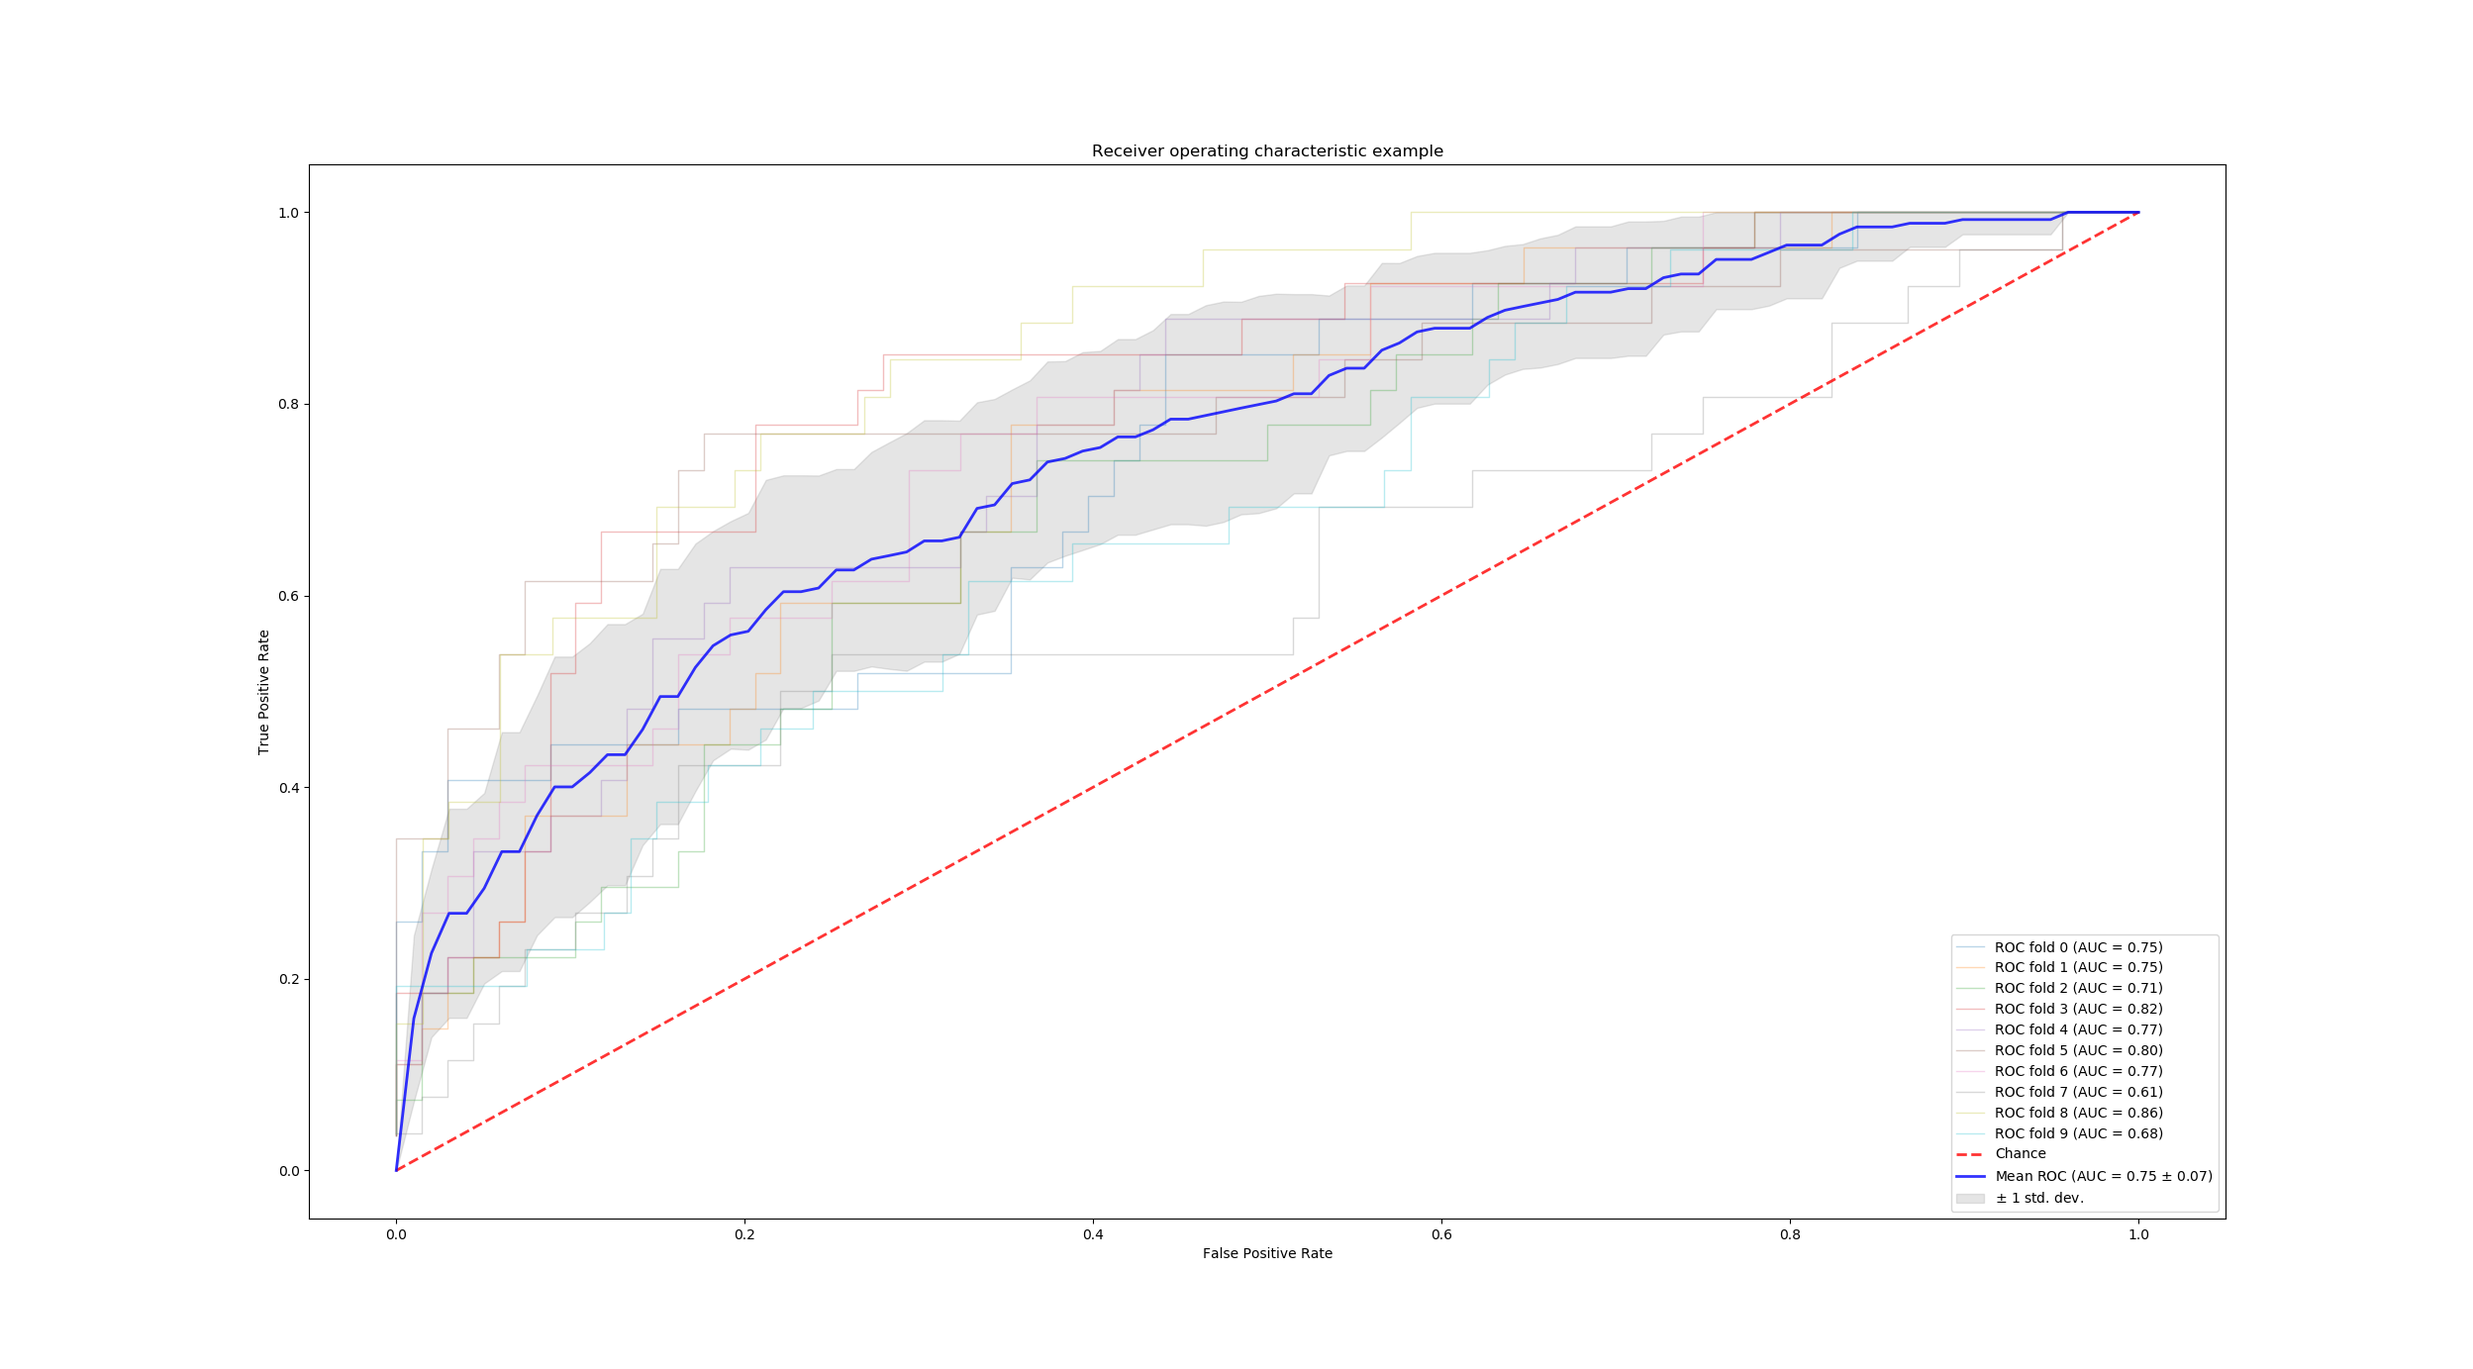
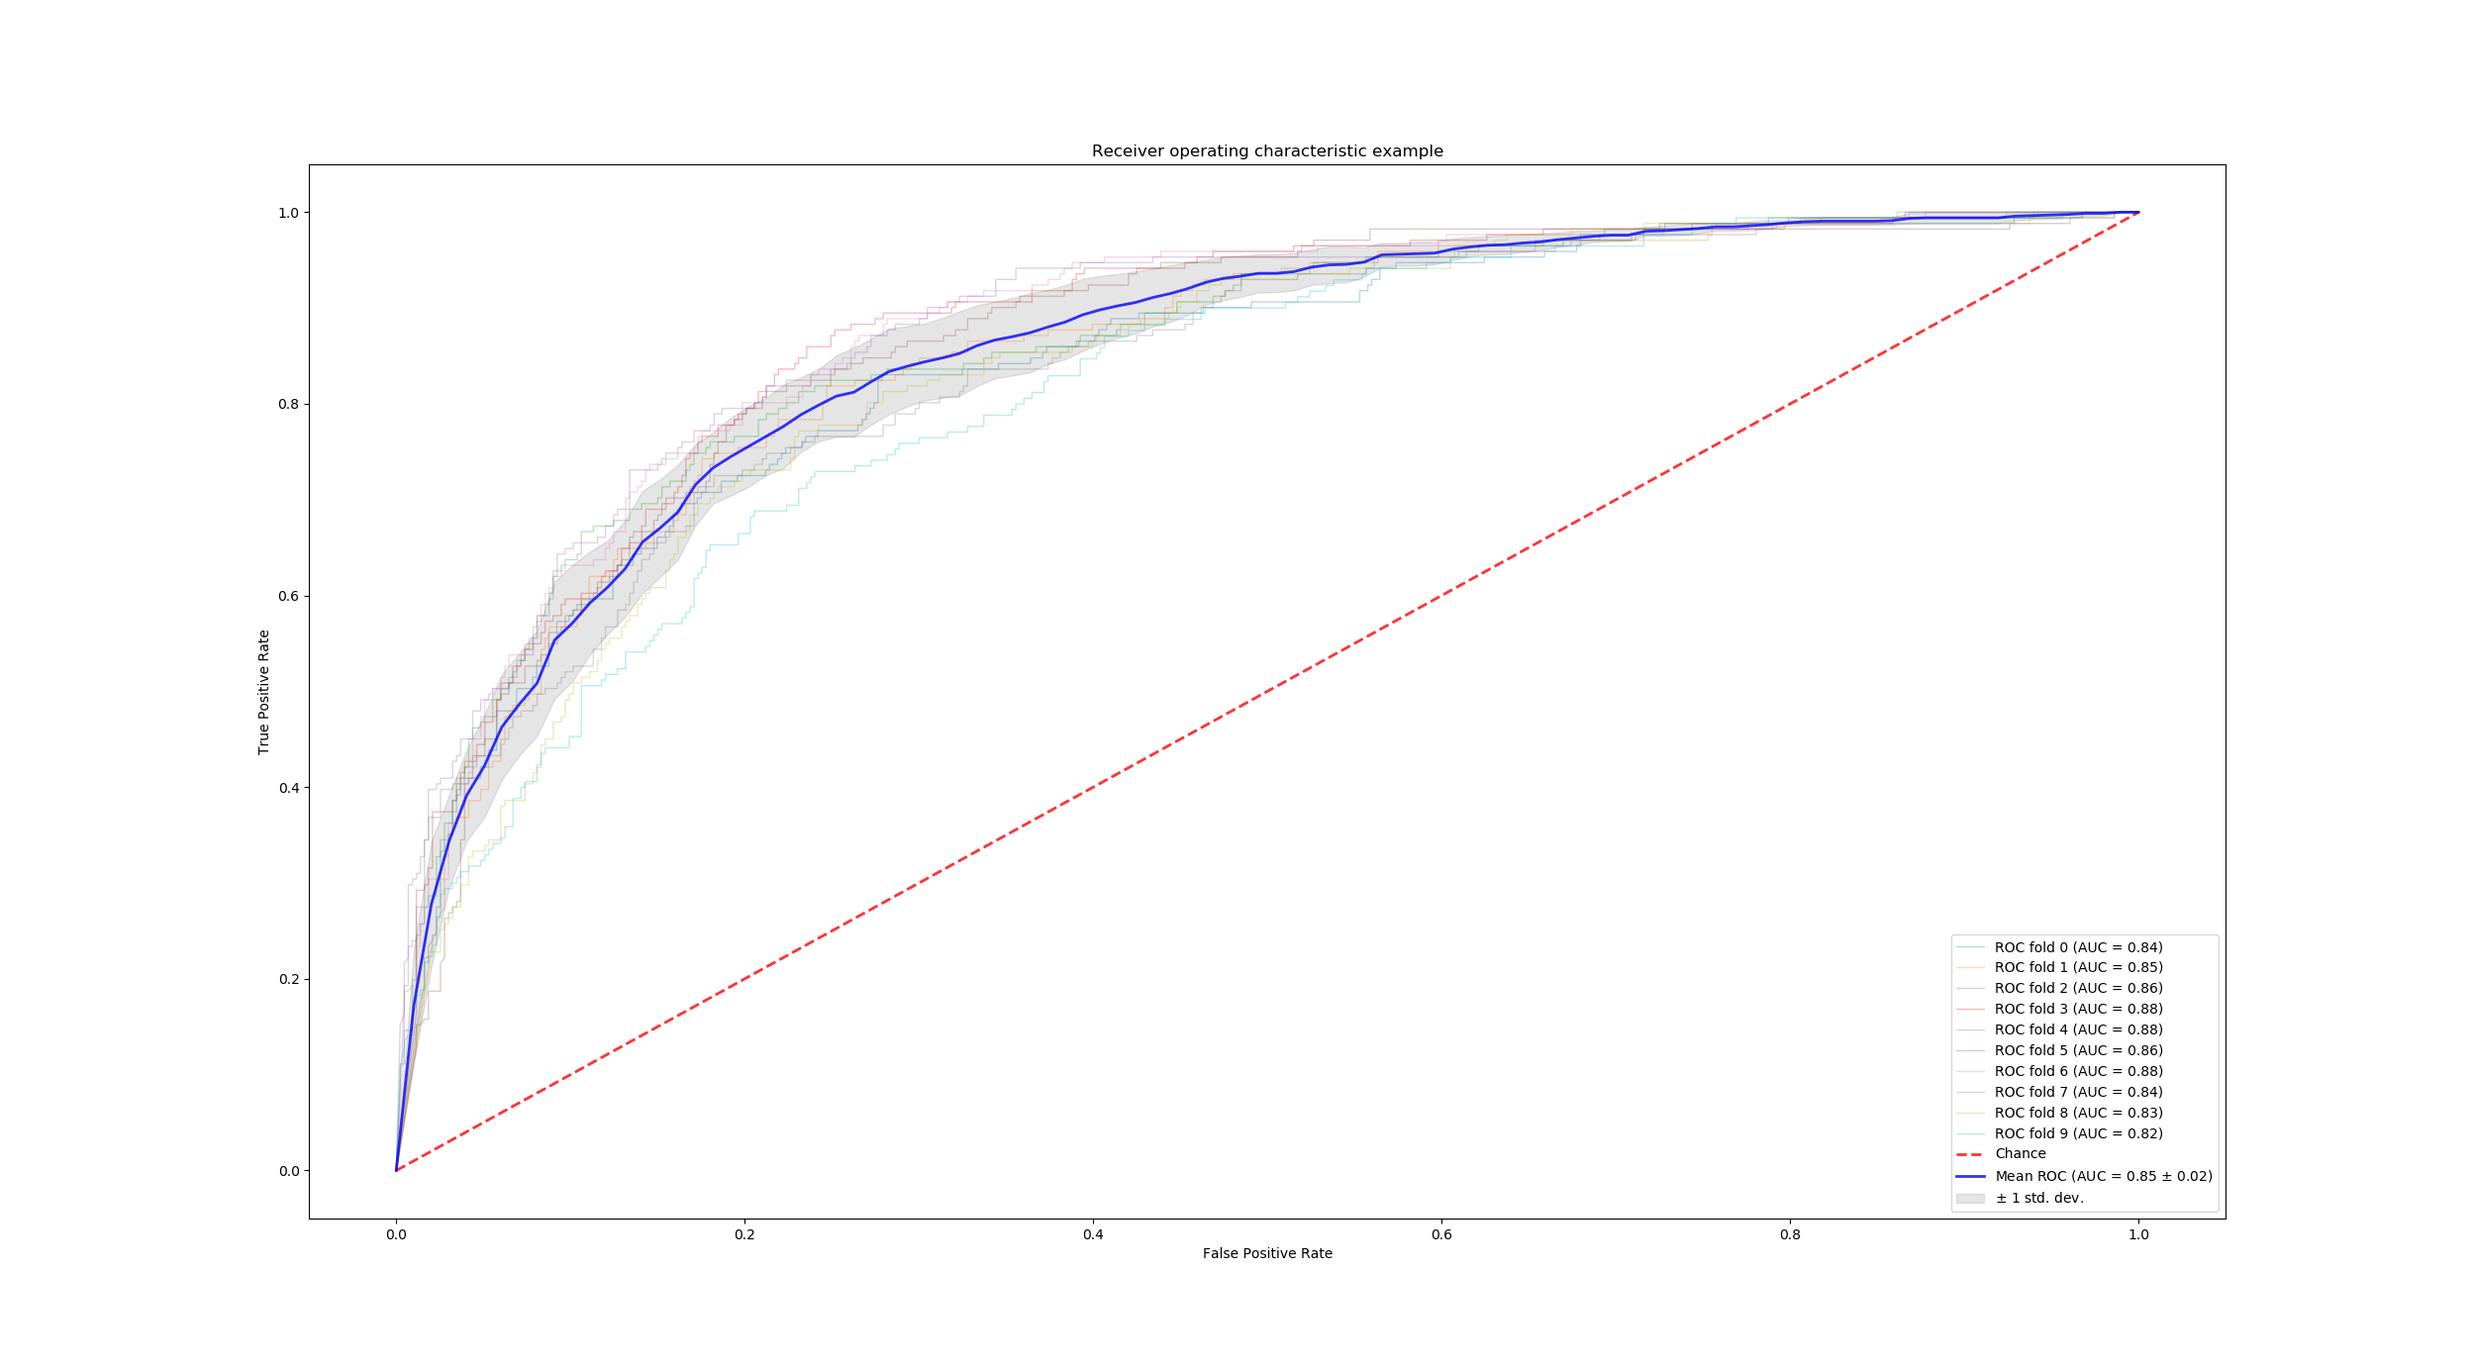
Add files via upload

Changed region(s): [[0.1561, 0.1555, 0.8431, 0.8395]]

diff --git a/code/Classifiers.py b/code/Classifiers.py
@@ -9,16 +9,17 @@ def svm_classifier(X, T):
     X_train, T_train = X[0:int(0.9 * len(X))], T[0:int(0.9 * len(X))]
     X_test, T_test = X[int(0.9 * len(X)):], T[int(0.9 * len(X)):]
     model = SVC(kernel='linear', C=1)
-    scores = cross_val_score(model, X_train, T_train, cv=5, scoring='roc_auc')
-    model.fit(X_train, T_train)
-    Y = model.predict(X_test)
-    print("AUC on folds:", scores)
-    print("Average AUC over all folds:", scores.mean())
+    #model = SVC(kernel='rbf', C=1)
+    #scores = cross_val_score(model, X_train, T_train, cv=5, scoring='roc_auc')
+    #model.fit(X_train, T_train)
+    #Y = model.predict(X_test)
+    #print("AUC on folds:", scores)
+    #print("Average AUC over all folds:", scores.mean())
     from sklearn.metrics import confusion_matrix as cm
-    tn, tp, fn, tp = cm(T_test, Y).ravel()
-    print(tn, tp, fn, tp)
-    print("measures", performance_measures(Y, T_test))
-    confusion_matrix(Y, T_test, size=int(max(T) + 1))
+    #tn, tp, fn, tp = cm(T_test, Y).ravel()
+    #print(tn, tp, fn, tp)
+    #print("measures", performance_measures(Y, T_test))
+    #confusion_matrix(Y, T_test, size=int(max(T) + 1))
 
     plot_ROC = False
     if plot_ROC:
@@ -41,11 +42,13 @@ def svm_classifier(X, T):
         plt.xlabel('False Positive Rate')
         plt.show()
     random_state = np.random.RandomState(0)
-    classifier = SVC(kernel='rbf', probability=True, random_state=random_state)
+    classifier = SVC(kernel='linear', probability=True, random_state=random_state)
+    #classifier= SVC(kernel='rbf', C=1, probability=True, random_state=random_state)
 
     ROC_cv(X, T, classifier)
 
-    return scores.mean()
+    #return scores.mean()
+    return 0
 
 
 def log_reg(X, T):
@@ -53,13 +56,13 @@ def log_reg(X, T):
     X_test, T_test = X[int(0.9 * len(X)):], T[int(0.9 * len(X)):]
     from sklearn.linear_model import LogisticRegression
     model = LogisticRegression()
-    scores = cross_val_score(model, X, T, cv=10)
-    model.fit(X, T)
-    Y = model.predict(X)
-    print("accuracy on folds:", scores)
-    print("Average accuracy over all folds:", scores.mean())
+    #scores = cross_val_score(model, X, T, cv=10)
+    #model.fit(X, T)
+    #Y = model.predict(X)
+    #print("accuracy on folds:", scores)
+    #print("Average accuracy over all folds:", scores.mean())
     #print("Beta values:", model.coef_)
-    confusion_matrix(Y, T)
+    #confusion_matrix(Y, T)
     print("measures", performance_measures(Y, T_test))
     random_state = np.random.RandomState(0)
     model = LogisticRegression(penalty='l2', random_state=random_state)
@@ -68,7 +71,20 @@ def log_reg(X, T):
     return scores.mean()
 
 
-def MLP_classifier(X, T, n_items, nr_output=2):
+def MLP_classifier(X, T, n_items):
+    nr_output = 2
+    model = MLP(n_hidden=int(200), n_output=nr_output)
+    X_train, T_train = X[0:int(0.9 * len(X))], T[0:int(0.9 * len(X))]
+    X_test, T_test = X[int(0.9 * len(X)):], T[int(0.9 * len(X)):]
+    model.fit(X_train, T_train)
+    Y = model.predict(X_test)
+    print(Y)
+    print("measures", performance_measures(Y, T_test))
+    model = MLP(n_hidden=int(200), n_output=nr_output)
+    ROC_cv(X, T, model)
+
+
+def MLP_classifier2(X, T, n_items, nr_output=2):
     from chainer.optimizers import Adam
     from chainer import Variable
     import chainer.functions as F
@@ -96,7 +112,7 @@ def MLP_classifier(X, T, n_items, nr_output=2):
     from chainer.dataset import concat_examples
     from chainer.backends.cuda import to_cpu
 
-    max_epoch = 50
+    max_epoch = 30
     train_accs = []
     train_accs_epochs = []
     val_acc_epochs = []
@@ -176,9 +192,36 @@ def MLP_classifier(X, T, n_items, nr_output=2):
             val_acc_epochs.append(np.mean(test_accuracies))
     confusion_matrix(final_pred, target_test.data, size=max_label)
 
-    print(train_accs_epochs, val_acc_epochs)
-    plot_line(range(max_epoch), train_accs_epochs, show=False)
-    plot_line(range(max_epoch), val_acc_epochs, legend=['train accuracy', 'validation accuracy'], xlabel='epoch', ylabel='accuracy')
+    #print(train_accs_epochs, val_acc_epochs)
+    #plot_line(range(max_epoch), train_accs_epochs, show=False)
+    #plot_line(range(max_epoch), val_acc_epochs, legend=['train accuracy', 'validation accuracy'], xlabel='epoch', ylabel='accuracy')
+    X_train, T_train = X[0:int(0.9 * len(X))], T[0:int(0.9 * len(X))]
+    X_test, T_test = X[int(0.9 * len(X)):], T[int(0.9 * len(X)):]
+    X_test = Variable(X_test).data.astype(np.float32)
+    plot_ROC = True
+    if plot_ROC:
+        import sklearn.metrics as metrics
+        # calculate the fpr and tpr for all thresholds of the classification
+        preds = model(X_test)
+        final_pred = np.zeros(shape=(len(preds),))
+        for i in range(len(preds)):
+            dummy = list(preds[i].data)
+            final_pred[i] = int(dummy.index(max(dummy)))
+        #print(len(T_test), len(final_pred), len(X_test))
+        fpr, tpr, threshold = metrics.roc_curve(T_test, final_pred)
+        roc_auc = metrics.auc(fpr, tpr)
+
+        # method I: plt
+        import matplotlib.pyplot as plt
+        plt.title('Receiver Operating Characteristic')
+        plt.plot(fpr, tpr, 'b', label='AUC = %0.2f' % roc_auc)
+        plt.legend(loc='lower right')
+        plt.plot([0, 1], [0, 1], 'r--')
+        plt.xlim([0, 1])
+        plt.ylim([0, 1])
+        plt.ylabel('True Positive Rate')
+        plt.xlabel('False Positive Rate')
+        plt.show()
     return np.mean(test_accuracies)
 
 

diff --git a/code/Models.py b/code/Models.py
@@ -2,12 +2,21 @@ from chainer import ChainList
 from chainer import Chain
 import chainer.links as L
 import chainer.functions as F
-
+from chainer import Variable
+import chainer.functions as F
+from chainer import optimizers
+from chainer import iterators
+import random as r
+from chainer.optimizers import Adam
+from chainer.dataset import concat_examples
+from chainer.backends.cuda import to_cpu
 import numpy as np
+from Utils import one_hot
 
 
 class MLP(Chain):
     """Multilayer perceptron"""
+    nr_hidden = 5
 
     def __init__(self, n_output=2, n_hidden=5):
         #super(MLP, self).__init__(L.Linear(None, n_hidden),L.Linear(n_hidden, n_hidden),L.Linear(n_hidden, n_hidden),L.Linear(n_hidden, n_output))
@@ -16,6 +25,7 @@ class MLP(Chain):
             self.l1 = L.Linear(None, n_hidden)
             self.l2 = L.Linear(n_hidden, n_hidden)
             self.l3 = L.Linear(n_hidden, n_output)
+        self.nr_hidden = n_hidden
 
     def __call__(self, x):
         """
@@ -28,3 +38,62 @@ class MLP(Chain):
         h = F.relu(self.l2(h))
         return F.softmax(self.l3(h))
 
+    def fit(self, X_train, T_train):
+        self = MLP(n_hidden=self.nr_hidden)
+        print("start fitting")
+        train = list(zip(X_train, T_train))
+        batchsize = 100
+        max_label = int(max(T_train)) + 1
+
+        train_iter = iterators.SerialIterator(train, batchsize)
+
+        gpu_id = -1  # Set to -1 if you use CPU
+        if gpu_id >= 0:
+            self.to_gpu(gpu_id)
+        optimizer = optimizers.Adam(alpha=0.001)
+        optimizer.setup(self)
+
+        max_epoch = 30
+        while train_iter.epoch < max_epoch:
+
+            # ---------- One iteration of the training loop ----------
+            train_batch = train_iter.next()
+            image_train, target_train = concat_examples(train_batch, gpu_id)
+            image_train = Variable(image_train).data.astype(np.float32)
+            target_train = Variable(target_train).data.astype(np.float32)
+            OH_T = np.asarray([one_hot(int(x), max_label) for x in target_train])
+            OH_T = Variable(OH_T).data.astype(np.float32)
+            # Calculate the prediction of the network
+            prediction_train = self(image_train)
+            final_pred = np.zeros(shape=(len(prediction_train),))
+            for i in range(len(prediction_train)):
+                dummy = list(prediction_train[i].data)
+                final_pred[i] = dummy.index(max(dummy))
+            # Calculate the loss with MSE
+            loss = F.mean_squared_error(prediction_train, OH_T)
+            # Calculate the gradients in the network
+            self.cleargrads()
+            loss.backward()
+            # Update all the trainable parameters
+            optimizer.update()
+
+            # --------------------- until here ---------------------
+
+            # Check the validation accuracy of prediction after every epoch
+            if train_iter.is_new_epoch:  # If this iteration is the final iteration of the current epoch
+                # Display the training loss
+                print('epoch:{:02d} train_loss:{:.04f}'.format(train_iter.epoch, float(to_cpu(loss.array))))
+        return self
+
+    def predict_proba(self, X):
+        X = Variable(X).data.astype(np.float32)
+        return self(X).data
+
+    def predict(self, X):
+        X = Variable(X).data.astype(np.float32)
+        prediction_train = self(X)
+        final_pred = np.zeros(shape=(len(prediction_train),))
+        for i in range(len(prediction_train)):
+            dummy = list(prediction_train[i].data)
+            final_pred[i] = dummy.index(max(dummy))
+        return final_pred

diff --git a/code/MovieLensData.py b/code/MovieLensData.py
@@ -2,7 +2,7 @@ import numpy as np
 from Utils import save_object, load_object
 
 
-def load_user_item_matrix_100k(max_user=943, max_item=1330):
+def load_user_item_matrix_100k(max_user=943, max_item=1682):
     """
         this function loads the user x items matrix from the **old** movie lens data set.
         Both input parameter represent a threshold for the maximum user id or maximum item id
@@ -20,9 +20,33 @@ def load_user_item_matrix_100k(max_user=943, max_item=1330):
             user_id, movie_id, rating, _ = line.split()
             user_id, movie_id, rating = int(user_id), int(movie_id), float(rating)
             if user_id < max_user and movie_id < max_item:
-                df[user_id, movie_id] = rating + 1
+                df[user_id-1, movie_id] = rating
 
     save_object(df, "objs/user-item_Matrix_old_" + str(max_user) + "_" + str(max_item))
+    return df
+
+
+def load_user_item_matrix_100k_masked(max_user=943, max_item=1682):
+    """
+        this function loads the user x items matrix from the **old** movie lens data set.
+        Both input parameter represent a threshold for the maximum user id or maximum item id
+        The highest user id is 138493 and the highest movie id is 27278 for the original data set, however, the masked data
+        set contains only 943 users and 1330 items
+        :return: user-item matrix
+        """
+    import os.path
+    #if os.path.isfile("objs/user-item_Matrix_old_" + str(max_user) + "_" + str(max_item)):
+    #    load_object("objs/user-item_Matrix_old_" + str(max_user) + "_" + str(max_item))
+
+    df = np.zeros(shape=(max_user, max_item))
+    with open("ml-20m/ml_shuffle_0.5_k40.csv", 'r') as f:
+        for line in f.readlines()[1:]:
+            user_id, movie_id, rating = line.split(",")
+            user_id, movie_id, rating = int(user_id), int(movie_id), float(rating)
+            if user_id < max_user and movie_id < max_item:
+                df[user_id-1, movie_id] = rating
+
+    save_object(df, "objs/user-item_Matrix_" + str(max_user) + "_" + str(max_item))
     return df
 
 

diff --git a/code/Utils.py b/code/Utils.py
@@ -66,10 +66,13 @@ def performance_measures(Y, T):
     TNR = tn/(tn+fp) # specificity/selectivity
     FPR = fp/(fp+tn)
 
+    #print("tp:", tp, ",fp:", fp, "\nfn:", fn, ",tn:", tn)
+
     precision = tp/(tp+fp)
     accuracy = (tp+tn)/(tp+tn+fp+fn)
 
     return TPR, TNR, FPR, FNR, precision, accuracy
+
 
 def ROC_cv(X, T, classifier):
     import matplotlib.pyplot as plt
@@ -84,10 +87,16 @@ def ROC_cv(X, T, classifier):
     tprs = []
     aucs = []
     mean_fpr = np.linspace(0, 1, 100)
-
+    recalls = []
+    precisions = []
     i = 0
     for train, test in cv.split(X, T):
-        probas_ = classifier.fit(X[train], T[train]).predict_proba(X[test])
+        classifier.fit(X[train], T[train])
+        Y = classifier.predict(X[test])
+        TPR, TNR, FPR, FNR, precision, accuracy = performance_measures(Y, T[test])
+        recalls.append(TPR)
+        precisions.append(precision)
+        probas_ = classifier.predict_proba(X[test])
         # Compute ROC curve and area the curve
         fpr, tpr, thresholds = roc_curve(T[test], probas_[:, 1])
         # print("thresholds", thresholds)
@@ -123,3 +132,5 @@ def ROC_cv(X, T, classifier):
     plt.title('Receiver operating characteristic example')
     plt.legend(loc="lower right")
     plt.show()
+
+    print("CV recall:", np.average(recalls), "CV precision:", np.average(precisions))

diff --git a/code/GenderClassification.py b/code/GenderClassification.py
@@ -1,4 +1,5 @@
-from MovieLensData import load_user_item_matrix, load_gender_vector, load_user_item_matrix_100k, load_user_item_matrix_1m, load_gender_vector_1m
+#from MovieLensData import load_user_item_matrix, load_gender_vector, load_user_item_matrix_100k, load_user_item_matrix_1m, load_gender_vector_1m
+import MovieLensData as MD
 import Classifiers
 from Utils import one_hot
 import numpy as np
@@ -12,15 +13,18 @@ if __name__ == '__main__':
     start = timeit.default_timer()
 
     max_user = 6040
-    max_item = 3952
-    X = load_user_item_matrix_1m(max_user=max_user, max_item=max_item)
-    T = load_gender_vector_1m(max_user=max_user)
+    max_item = 1682
+    X = MD.load_user_item_matrix_1m()#max_user=max_user, max_item=max_item)
+    T = MD.load_gender_vector_1m()#max_user=max_user)
 
     print(X.shape, T.shape)
     #OH_T = [one_hot(int(x), 2) for x in T]
+
+    Classifiers.svm_classifier(X, T)
+
     accs = []
     for i in range(1):
-        accs.append(Classifiers.svm_classifier(X, T))
+        accs.append(0)
 
     print(accs, "\n", sum(accs)/len(accs))
 
